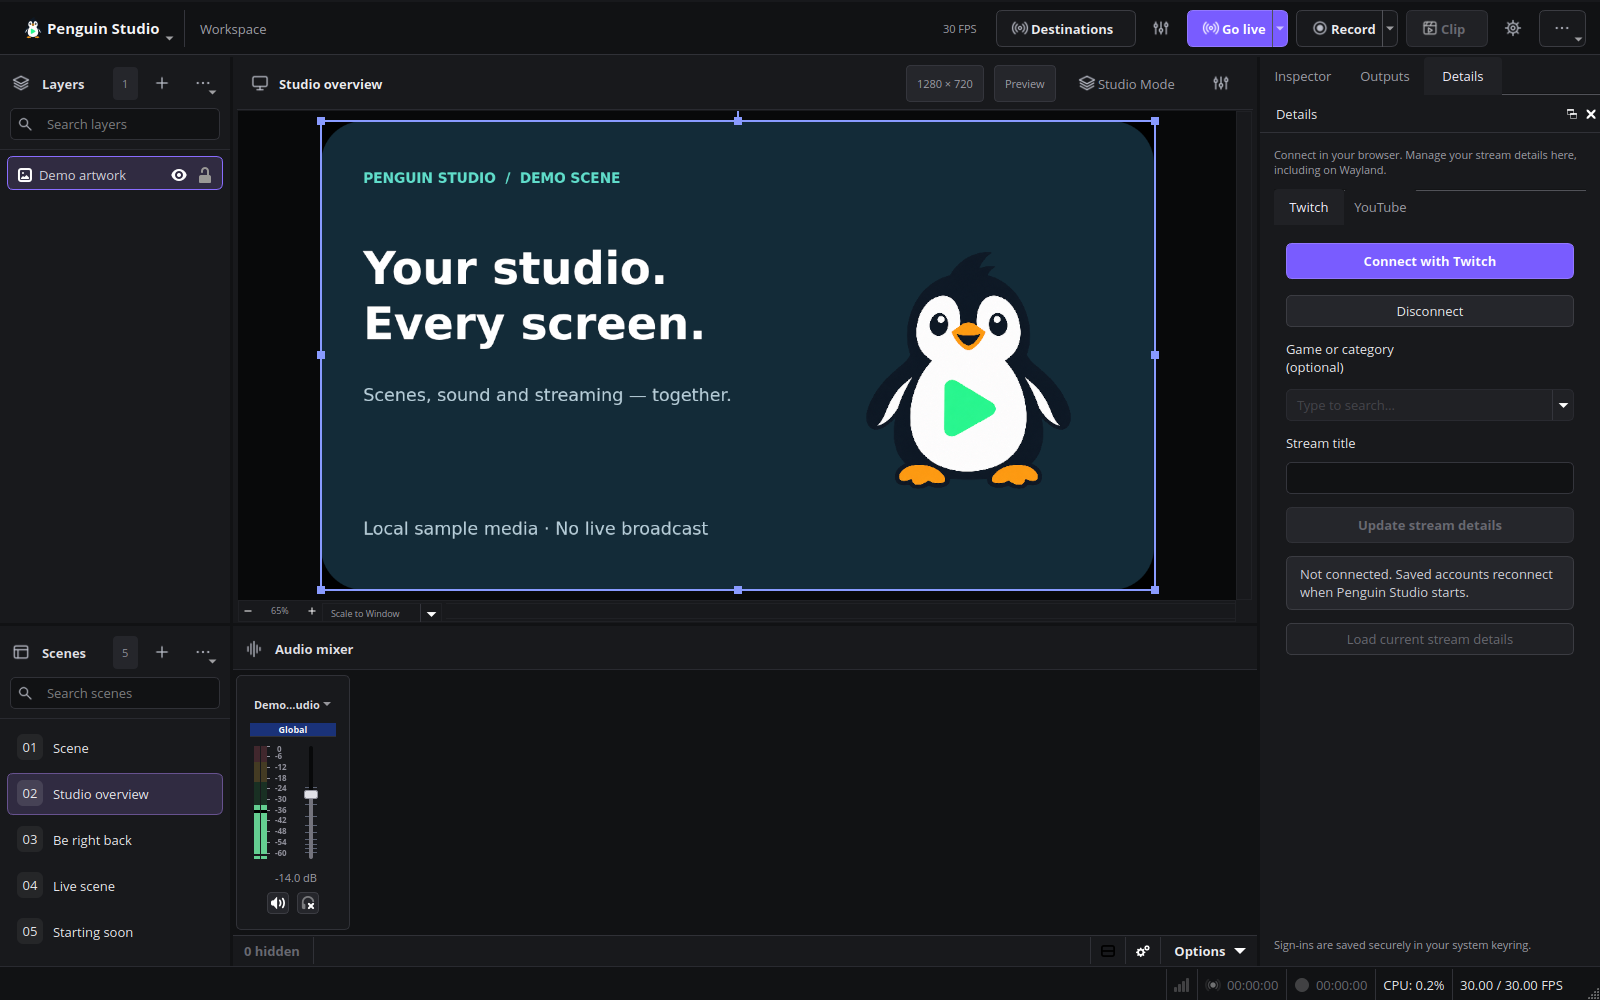
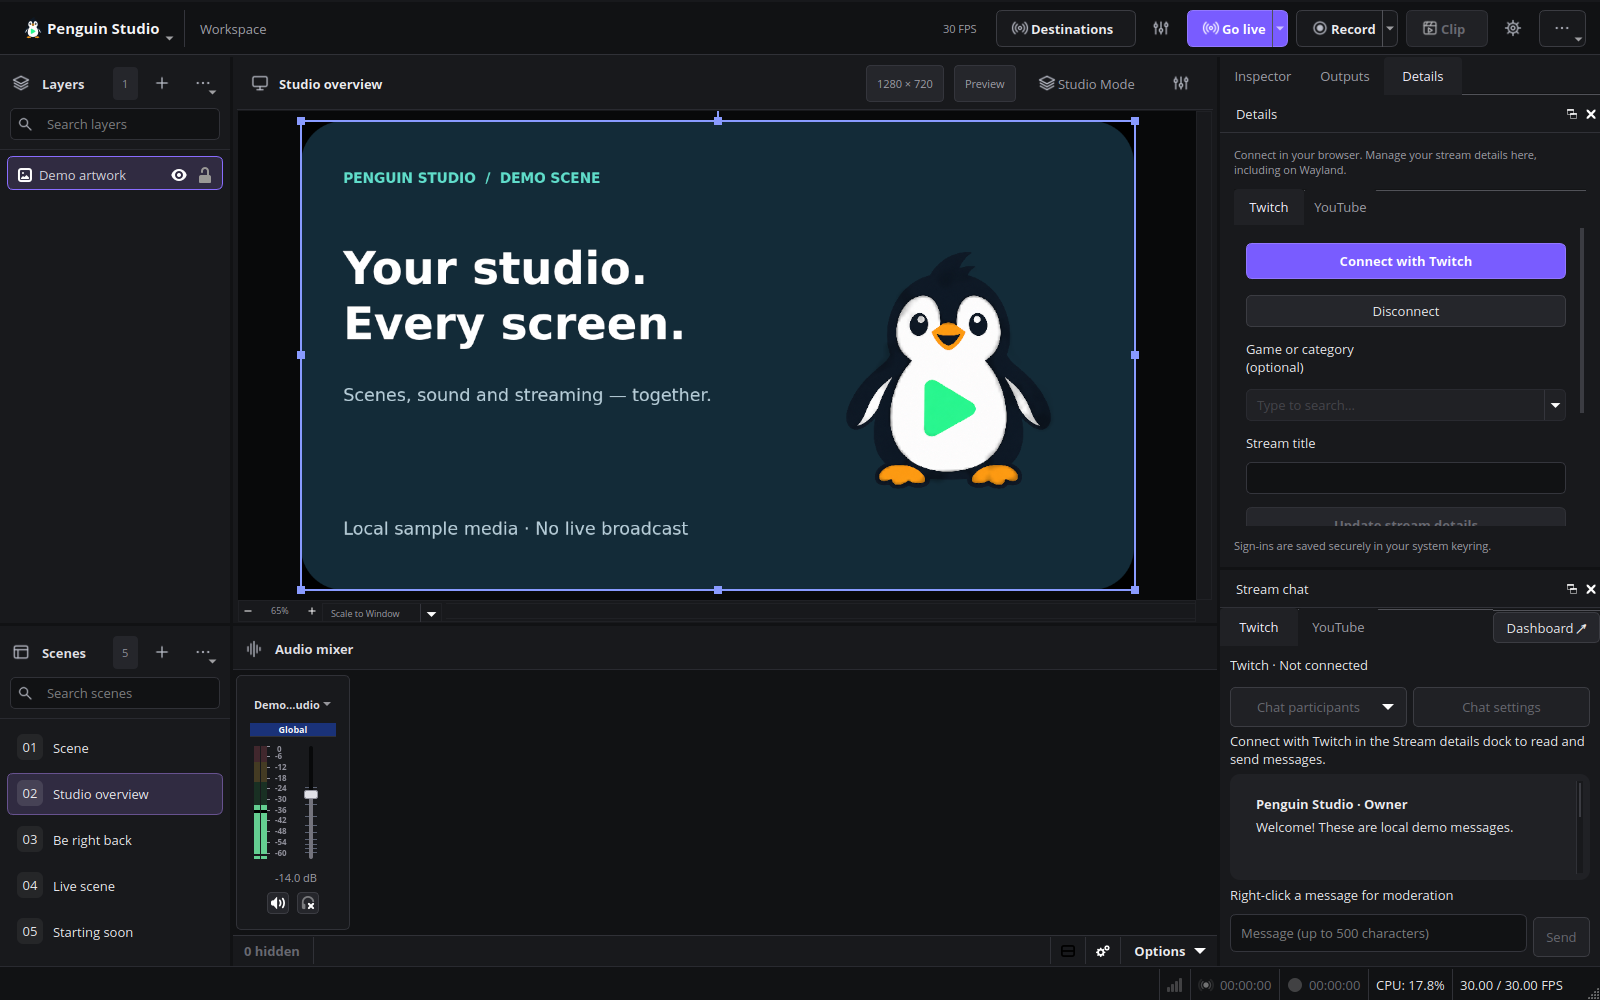
Refresh English 0.6.0 previews and record packaged Wayland checks

diff --git a/docs/PACKAGING.md b/docs/PACKAGING.md
@@ -30,9 +30,8 @@ recipes deliberately target x86_64 only.
 ## Automatic versioned downloads
 
 **[Download Penguin Studio 0.6.0](https://github.com/SigmaCodez/PenguinStudio/releases/tag/penguin-v0.6.0)**
-The candidate is being validated. Publication requires every package build and
-release check to pass; refer to the release build manifest for the final source
-commit and checksums.
+Publication requires every package build and release check to pass. Refer to
+the release build manifest for the final source commit and checksums.
 
 [GitHub Releases](https://github.com/SigmaCodez/PenguinStudio/releases) provides
 permanent downloads of Ubuntu 24.04 and 26.04 DEBs, Fedora 44 RPM, Flatpak,
@@ -64,7 +63,9 @@ Download the Ubuntu 26.04 DEB from [Penguin Studio releases](https://github.com/
 Ubuntu 26.04.1 uses the same package. Do not install the Ubuntu 24.04 DEB on
 26.04 or mix distribution repositories to satisfy its dependencies.
 
-The new chat and camera modes are undergoing packaged Wayland validation.
+The Ubuntu 26.04 candidate passed native Wayland camera-control, blur, custom-image
+and clean-shutdown tests. Chat request fixtures and a synthetic recording were also
+checked; see [0.6.0 validation](validation/chat-camera-0.6.0.md) for scope and limits.
 Earlier installed-version results remain in the [verification history](VERIFICATION.md).
 
 The download is `penguin-studio_0.6.0-1+ubuntu26.04_amd64.deb`.

diff --git a/docs/validation/chat-camera-0.6.0.md b/docs/validation/chat-camera-0.6.0.md
@@ -38,4 +38,16 @@ leaks on normal shutdown. No webcam or microphone was captured.
 
 ## Full-package validation
 
-Pending the 0.6.0 candidate builds and packaged Wayland checks.
+The Ubuntu 26.04 candidate built from `197550e4` passed the full native Wayland
+Inspector test: all six background choices were available, blur and image paths
+were applied through the real controls, and shape/keying, rounded corners,
+undo/redo, settings restoration and missing-image fallback passed. It closed
+with no warning/error diagnostics and zero reported memory leaks.
+
+The three English product previews were captured from that actual package under
+XWayland, using synthetic media and explicitly labelled local chat messages.
+Each was visually reviewed; capture provenance is in the current-image manifest.
+Later chat fixes are covered by the current request/event regression fixtures.
+
+Release-build and installed-version verification are recorded separately after
+all final artifacts are available.
